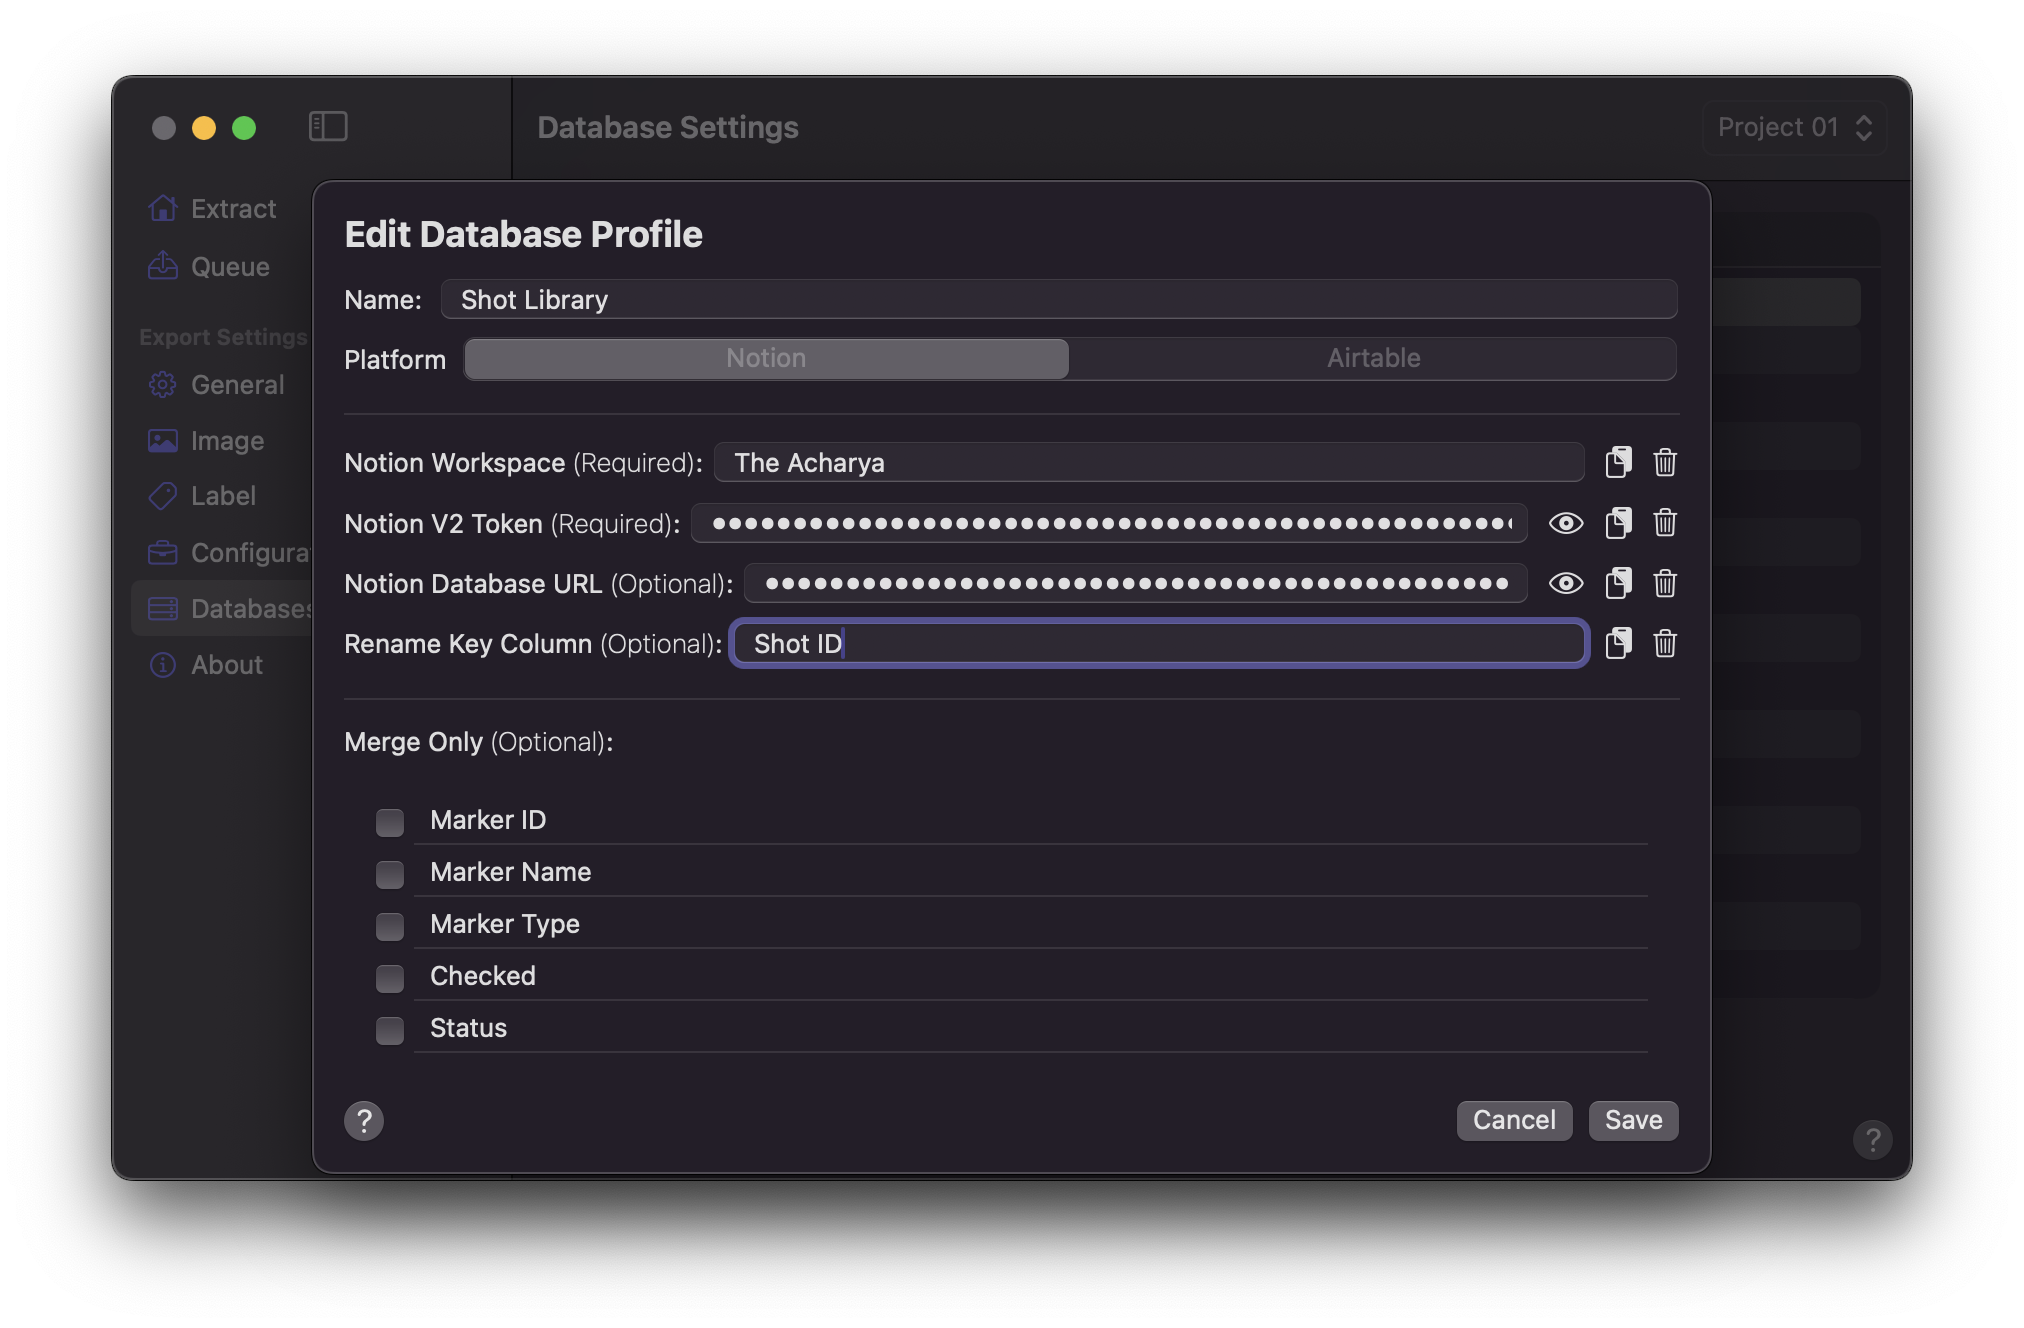
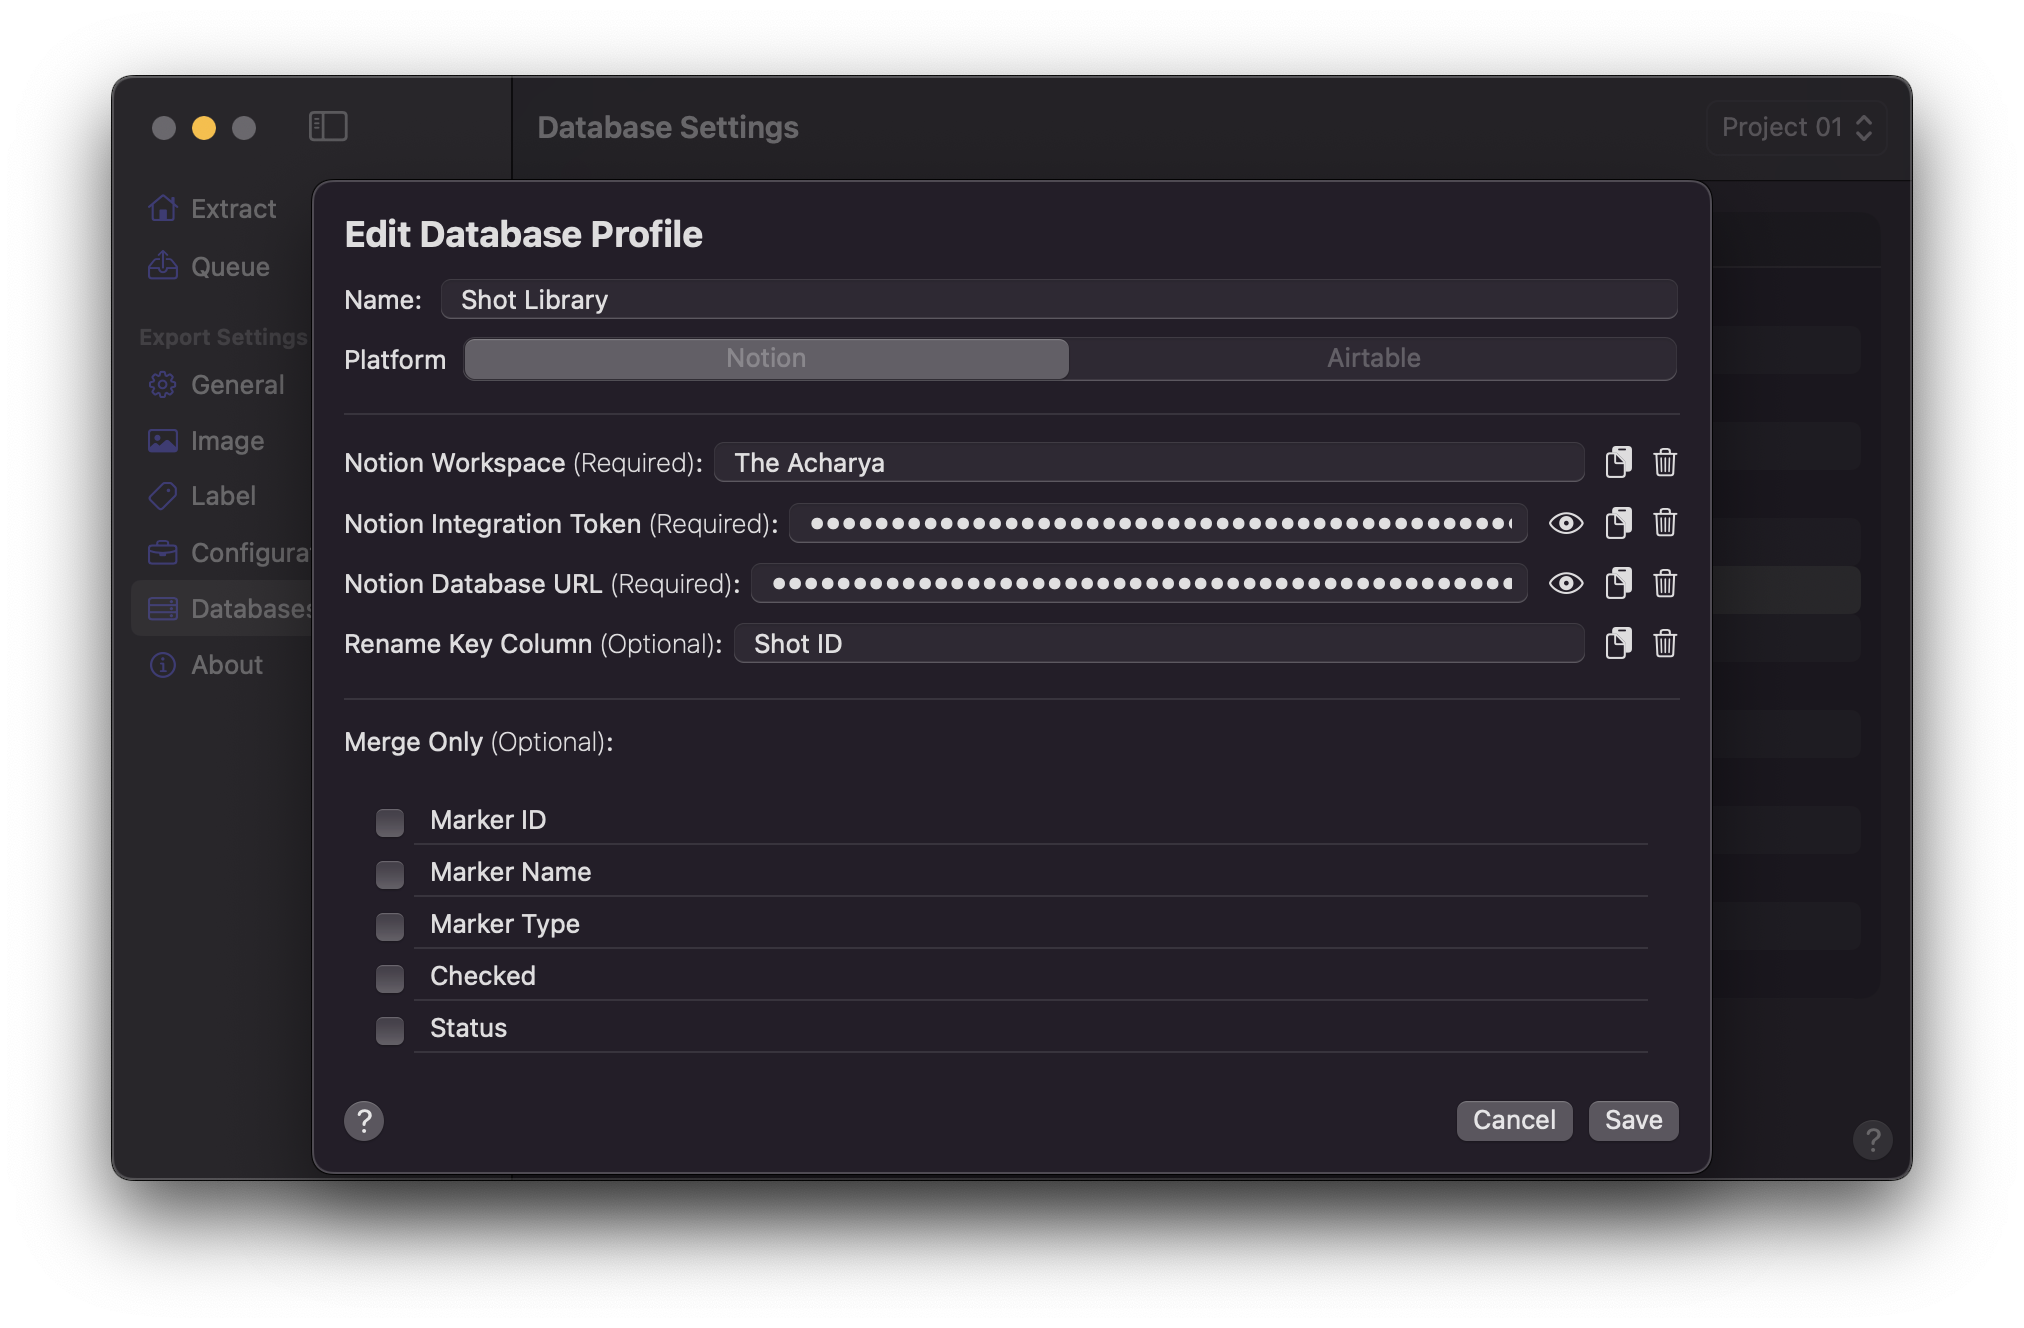
Update Documentation

diff --git a/docs/In Action/notion-profile.md b/docs/In Action/notion-profile.md
@@ -25,7 +25,7 @@ You possess the liberty to tailor the [Marker Data Template](/user-guide/databas
 4. Paste the URL into `Notion Database URL` field.
 
 !!!info Info
-It is presumed that you have acquired and inputted your [Notion V2 Token](/databases/notion-prerequisite/#obtain-your-session-token).
+It is presumed that you have acquired and inputted your [Notion Integration Token](/databases/notion-prerequisite#obtain-your-integration-token).
 !!!
 
 ![Notion V2 Token](/assets/md-send-to-notion-01.png)

diff --git a/docs/In Action/creating-shot-library.md b/docs/In Action/creating-shot-library.md
@@ -25,7 +25,7 @@ You possess the liberty to tailor the [Shot Library Template](/user-guide/databa
 4. Paste the URL into `Notion Database URL` field.
 
 !!!info Info
-It is presumed that you have acquired and inputted your [Notion V2 Token](/databases/notion-prerequisite/#obtain-your-session-token).
+It is presumed that you have acquired and inputted your [Notion Integration Token](/databases/notion-prerequisite#obtain-your-integration-token).
 !!!
 
 5. Type `Shot ID` into `Rename Key Column` field. 
